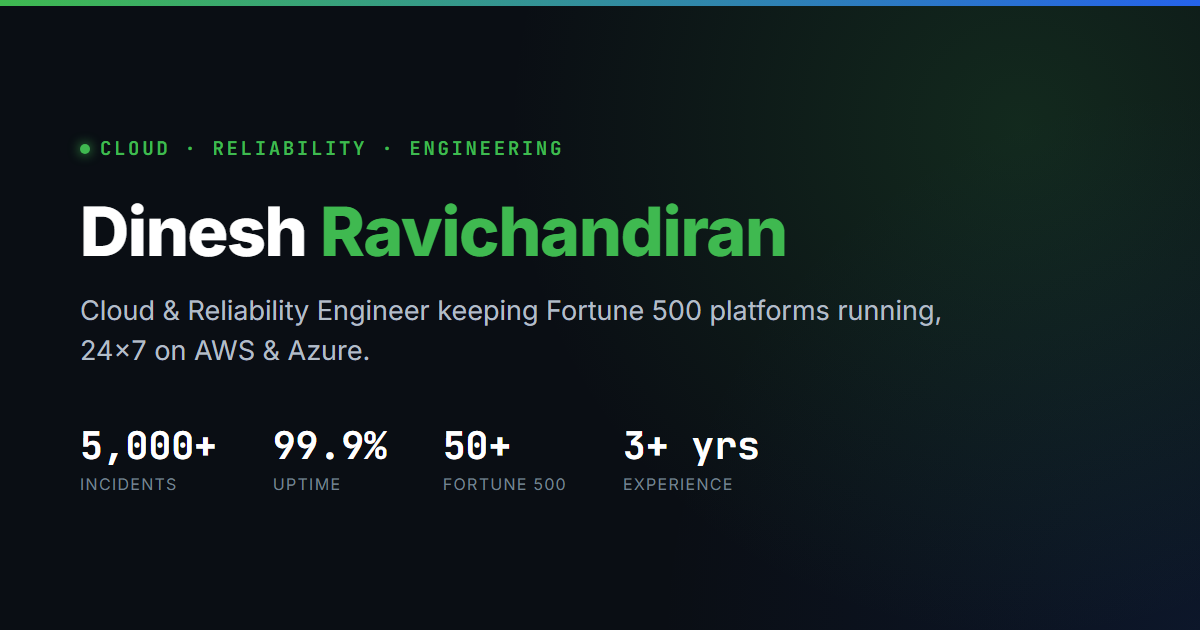
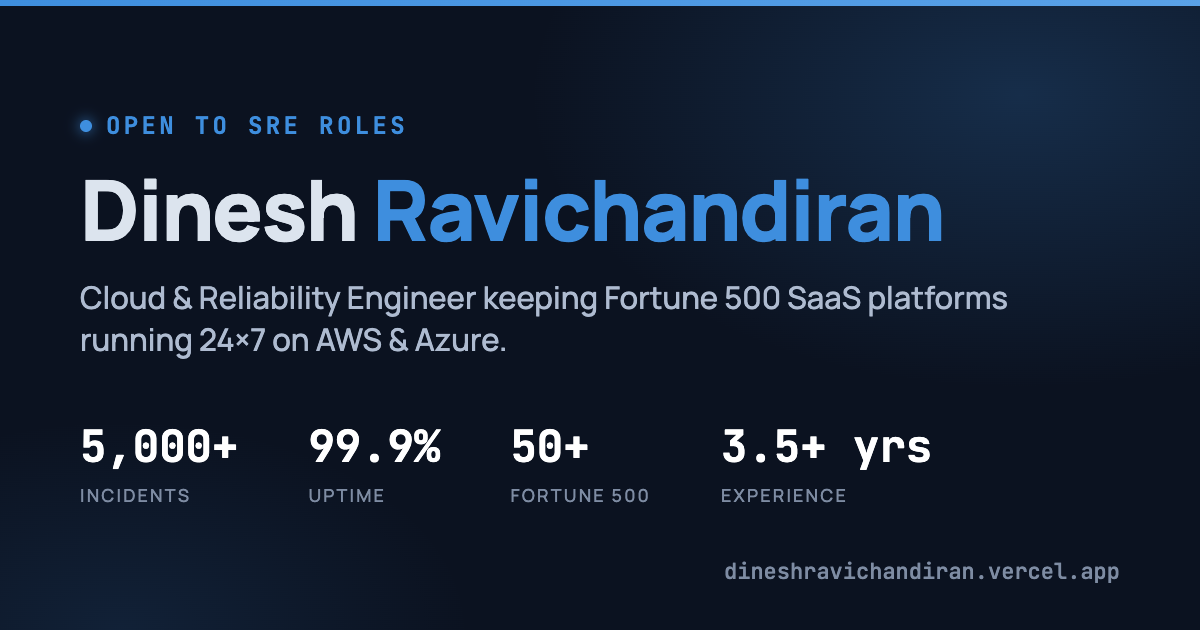
Portfolio review fixes: accurate title wording, mobile overflow, tighter copy
- hero, page title, meta and structured data use SRE-focused / Cloud &
  Reliability Engineer wording instead of stating an SRE job title
- shorter hero intro so the call to action fits on a phone screen
- fix 20px sideways scroll on mobile caused by slide-in reveals
- About uses 3.5+ years like everywhere else; Certifications heading no
  longer overstates two Fundamentals certs
- remove the empty dev.to link; trim dated and defensive copy
- college-era workshops and EF SET move behind a show toggle
- regenerate the social share image in the site's colours with 3.5+ yrs

diff --git a/index.html b/index.html
@@ -4,10 +4,10 @@
     <meta charset="UTF-8" />
     <link rel="icon" type="image/svg+xml" href="/favicon.svg" />
     <meta name="viewport" content="width=device-width, initial-scale=1.0" />
-    <title>Dinesh Ravichandiran — Site Reliability Engineer (SRE)</title>
-    <meta name="description" content="Site Reliability Engineer. 3.5+ years running 24x7 production ops for 50+ Fortune 500 SaaS platforms on AWS & Azure. 5,000+ incidents resolved, 99.9% uptime. AIOps, Kubernetes self-healing, and IaC in verified self-directed projects." />
-    <meta property="og:title" content="Dinesh Ravichandiran — Site Reliability Engineer (SRE)" />
-    <meta property="og:description" content="Site Reliability Engineer with 3.5+ years keeping 50+ Fortune 500 platforms running 24×7 on AWS & Azure — plus AIOps, Kubernetes self-healing, and IaC projects built and verified live." />
+    <title>Dinesh Ravichandiran | Cloud &amp; Reliability Engineer, open to SRE roles</title>
+    <meta name="description" content="SRE-focused cloud and reliability engineer with 3.5+ years running 24x7 production operations for 50+ Fortune 500 SaaS platforms on AWS and Azure. 5,000+ incidents resolved, 99.9% uptime, plus verified AIOps, Kubernetes and IaC projects." />
+    <meta property="og:title" content="Dinesh Ravichandiran | Cloud &amp; Reliability Engineer, open to SRE roles" />
+    <meta property="og:description" content="SRE-focused cloud and reliability engineer with 3.5+ years running 24x7 production operations for 50+ Fortune 500 SaaS platforms on AWS and Azure. 5,000+ incidents resolved, 99.9% uptime, plus verified AIOps, Kubernetes and IaC projects." />
     <meta property="og:type" content="website" />
     <meta property="og:url" content="https://dineshravichandiran.vercel.app/" />
     <meta property="og:site_name" content="Dinesh Ravichandiran" />
@@ -15,17 +15,17 @@
     <meta property="og:image:width" content="1200" />
     <meta property="og:image:height" content="630" />
     <meta name="twitter:card" content="summary_large_image" />
-    <meta name="twitter:title" content="Dinesh Ravichandiran — Site Reliability Engineer (SRE)" />
-    <meta name="twitter:description" content="Site Reliability Engineer with 3.5+ years keeping 50+ Fortune 500 platforms running 24×7 on AWS & Azure — plus AIOps, Kubernetes self-healing, and IaC projects built and verified live." />
+    <meta name="twitter:title" content="Dinesh Ravichandiran | Cloud &amp; Reliability Engineer, open to SRE roles" />
+    <meta name="twitter:description" content="SRE-focused cloud and reliability engineer with 3.5+ years running 24x7 production operations for 50+ Fortune 500 SaaS platforms on AWS and Azure. 5,000+ incidents resolved, 99.9% uptime, plus verified AIOps, Kubernetes and IaC projects." />
     <meta name="twitter:image" content="https://dineshravichandiran.vercel.app/og-image.png" />
     <link rel="canonical" href="https://dineshravichandiran.vercel.app/" />
     <meta name="theme-color" content="#0b1220" />
     <meta name="color-scheme" content="dark" />
     <meta name="author" content="Dinesh Ravichandiran" />
     <meta name="robots" content="index, follow, max-image-preview:large, max-snippet:-1" />
-    <meta property="og:image:alt" content="Dinesh Ravichandiran, Site Reliability Engineer" />
+    <meta property="og:image:alt" content="Dinesh Ravichandiran, Cloud &amp; Reliability Engineer" />
     <meta property="og:locale" content="en_IN" />
-    <meta name="twitter:image:alt" content="Dinesh Ravichandiran, Site Reliability Engineer" />
+    <meta name="twitter:image:alt" content="Dinesh Ravichandiran, Cloud &amp; Reliability Engineer" />
     <!-- The intro poster is the largest thing painted on load, so fetch it first. -->
     <link rel="preload" as="image" href="/media/intro-hero-desk-poster.webp" type="image/webp" fetchpriority="high" />
     <link rel="preconnect" href="https://fonts.googleapis.com" />
@@ -48,8 +48,8 @@
         "@context": "https://schema.org",
         "@type": "Person",
         "name": "Dinesh Ravichandiran",
-        "jobTitle": "Site Reliability Engineer",
-        "description": "Site Reliability Engineer focused on incident response, Kubernetes, cloud infrastructure on AWS and Azure, observability, and automation.",
+        "jobTitle": "Cloud Services Specialist NOC Engineer",
+        "description": "SRE-focused cloud and reliability engineer focused on incident response, Kubernetes, cloud infrastructure on AWS and Azure, observability, and automation.",
         "image": "https://dineshravichandiran.vercel.app/og-image.png",
         "knowsAbout": ["Site Reliability Engineering", "Kubernetes", "AWS", "Microsoft Azure", "Linux", "Observability", "Incident Management", "Terraform", "Ansible", "CI/CD", "AIOps"],
         "alumniOf": [
@@ -70,7 +70,6 @@
           "https://www.credly.com/users/dineshravichandiran",
           "https://x.com/dineshr_",
           "https://medium.com/@dineshravichandiran",
-          "https://dev.to/dinesh_ravichandiran",
           "https://hashnode.com/@dinesh101"
         ]
       }
@@ -80,8 +79,8 @@
     <div id="root"></div>
     <noscript>
       <main style="font-family: system-ui, sans-serif; max-width: 42rem; margin: 3rem auto; padding: 0 1rem; color: #dce4ee; background: #0b1220;">
-        <h1>Dinesh Ravichandiran, Site Reliability Engineer</h1>
-        <p>Site Reliability Engineer in Pune, India, keeping enterprise SaaS platforms running 24x7 on AWS and Azure. Focus areas: incident response, Kubernetes, observability, infrastructure as code, and automation.</p>
+        <h1>Dinesh Ravichandiran, Cloud &amp; Reliability Engineer</h1>
+        <p>SRE-focused cloud and reliability engineer in Pune, India, keeping enterprise SaaS platforms running 24x7 on AWS and Azure. Focus areas: incident response, Kubernetes, observability, infrastructure as code, and automation.</p>
         <p><a href="https://github.com/dineshravichandiran">GitHub</a> · <a href="https://linkedin.com/in/dineshravichandiran">LinkedIn</a> · <a href="mailto:dineshravichandiran0808@gmail.com">Email</a></p>
         <p>This site needs JavaScript to show the full portfolio.</p>
       </main>

diff --git a/src/data/gallery.ts b/src/data/gallery.ts
@@ -12,6 +12,8 @@ export interface GalleryItem {
 
 export interface GalleryGroup {
   heading: string
+  // Shown behind a "show" toggle: real, but secondary to the SRE story.
+  collapsed?: boolean
   items: GalleryItem[]
 }
 
@@ -63,7 +65,67 @@ export const certificateGroups: GalleryGroup[] = [
     ],
   },
   {
-    heading: 'Courses & workshops',
+    heading: 'Online courses & webinars',
+    items: [
+      {
+        src: '/gallery/kodekloud-kubernetes-crash-course.jpg',
+        title: 'Crash Course: Kubernetes For Absolute Beginners',
+        detail: 'Course Completion Certificate · KodeKloud',
+        date: '12 Aug 2025',
+        alt: 'KodeKloud course completion certificate for Crash Course: Kubernetes For Absolute Beginners',
+      },
+      {
+        src: '/gallery/kodekloud-12-factor-app.jpg',
+        title: '12 Factor App',
+        detail: 'Course Completion Certificate · KodeKloud',
+        date: '31 Aug 2025',
+        alt: 'KodeKloud course completion certificate for the 12 Factor App course',
+      },
+      {
+        src: '/gallery/internshala-core-java-ai-verification.jpg',
+        title: 'Core Java with AI',
+        detail: 'Internshala Trainings · final test score 71% · verified on the issuer\'s site',
+        date: '29 Sep 2021',
+        alt: 'Internshala Trainings certificate verification page showing Core Java with AI, final test score 71 percent, dated 29 September 2021',
+      },
+      {
+        src: '/gallery/sumo-logic-kubernetes-basics.jpg',
+        title: 'Kubernetes Basics',
+        detail: 'Certificate of Completion · Sumo Logic self-paced training · valid to 2 Aug 2026',
+        date: '2 Aug 2025',
+        alt: 'Sumo Logic self-paced training certificate of completion for Kubernetes Basics',
+      },
+      {
+        src: '/gallery/manipal-dataops-webinar.jpg',
+        title: 'The Rise of DataOps',
+        detail: 'Certificate of Participation · Online Manipal webinar',
+        date: '11 Jun 2025',
+        alt: 'Online Manipal certificate of participation in a webinar on The Rise of DataOps',
+      },
+      {
+        src: '/gallery/mhrd-leadership-talk.jpg',
+        title: 'India First Leadership Talk',
+        detail: "Certificate of Participation · MHRD's Innovation Cell (Government of India) · via Panimalar Engineering College",
+        date: '13 Jun',
+        alt: "MHRD Innovation Cell certificate of participation for a leadership talk, attended through Panimalar Engineering College",
+      },
+    ],
+  },
+  {
+    heading: 'Programs & language',
+    items: [
+      {
+        src: '/gallery/internshala-isp22-letter.jpg',
+        title: 'Internshala Student Partner (ISP 22)',
+        detail: 'Campus Ambassador Program · letter of recognition from Internshala',
+        date: 'Apr–Jun 2021',
+        alt: 'Internshala letter recognising Dinesh Ravichandiran for the Campus Ambassador Program, Internshala Student Partner 22 edition',
+      },
+    ],
+  },
+  {
+    heading: 'Earlier certificates (college years)',
+    collapsed: true,
     items: [
       {
         src: '/gallery/sathyabama-iot-short-course.jpg',
@@ -127,65 +189,6 @@ export const certificateGroups: GalleryGroup[] = [
         detail: 'Certificate of Appreciation · NSTEDB, DST · Panimalar Engineering College',
         date: '2–4 Nov 2019',
         alt: 'Entrepreneur Awareness Camp certificate of appreciation sponsored by NSTEDB and the Department of Science and Technology',
-      },
-    ],
-  },
-  {
-    heading: 'Online courses & webinars',
-    items: [
-      {
-        src: '/gallery/kodekloud-kubernetes-crash-course.jpg',
-        title: 'Crash Course: Kubernetes For Absolute Beginners',
-        detail: 'Course Completion Certificate · KodeKloud',
-        date: '12 Aug 2025',
-        alt: 'KodeKloud course completion certificate for Crash Course: Kubernetes For Absolute Beginners',
-      },
-      {
-        src: '/gallery/kodekloud-12-factor-app.jpg',
-        title: '12 Factor App',
-        detail: 'Course Completion Certificate · KodeKloud',
-        date: '31 Aug 2025',
-        alt: 'KodeKloud course completion certificate for the 12 Factor App course',
-      },
-      {
-        src: '/gallery/internshala-core-java-ai-verification.jpg',
-        title: 'Core Java with AI',
-        detail: 'Internshala Trainings · final test score 71% · verified on the issuer\'s site',
-        date: '29 Sep 2021',
-        alt: 'Internshala Trainings certificate verification page showing Core Java with AI, final test score 71 percent, dated 29 September 2021',
-      },
-      {
-        src: '/gallery/sumo-logic-kubernetes-basics.jpg',
-        title: 'Kubernetes Basics',
-        detail: 'Certificate of Completion · Sumo Logic self-paced training · valid to 2 Aug 2026',
-        date: '2 Aug 2025',
-        alt: 'Sumo Logic self-paced training certificate of completion for Kubernetes Basics',
-      },
-      {
-        src: '/gallery/manipal-dataops-webinar.jpg',
-        title: 'The Rise of DataOps',
-        detail: 'Certificate of Participation · Online Manipal webinar',
-        date: '11 Jun 2025',
-        alt: 'Online Manipal certificate of participation in a webinar on The Rise of DataOps',
-      },
-      {
-        src: '/gallery/mhrd-leadership-talk.jpg',
-        title: 'India First Leadership Talk',
-        detail: "Certificate of Participation · MHRD's Innovation Cell (Government of India) · via Panimalar Engineering College",
-        date: '13 Jun',
-        alt: "MHRD Innovation Cell certificate of participation for a leadership talk, attended through Panimalar Engineering College",
-      },
-    ],
-  },
-  {
-    heading: 'Programs & language',
-    items: [
-      {
-        src: '/gallery/internshala-isp22-letter.jpg',
-        title: 'Internshala Student Partner (ISP 22)',
-        detail: 'Campus Ambassador Program · letter of recognition from Internshala',
-        date: 'Apr–Jun 2021',
-        alt: 'Internshala letter recognising Dinesh Ravichandiran for the Campus Ambassador Program, Internshala Student Partner 22 edition',
       },
       {
         src: '/gallery/ef-set-english-b2.jpg',

diff --git a/src/components/gallery/CertificateGallery.tsx b/src/components/gallery/CertificateGallery.tsx
@@ -1,3 +1,4 @@
+import { useState } from 'react'
 import GalleryGrid from './GalleryGrid'
 import { certificateGroups, courseCredentials, trainingCourses } from '../../data/gallery'
 import type { TrainingItem } from '../../data/gallery'
@@ -22,6 +23,29 @@ function TextList({ heading, items }: { heading: string; items: TrainingItem[] }
   )
 }
 
+function CollapsedGroup({ heading, items }: { heading: string; items: (typeof certificateGroups)[number]['items'] }) {
+  const [open, setOpen] = useState(false)
+  return (
+    <div>
+      <button
+        type="button"
+        onClick={() => setOpen((v) => !v)}
+        aria-expanded={open}
+        className="inline-flex cursor-pointer items-center gap-2 rounded-full border border-panel-border-strong px-4 py-2 font-mono text-[0.78rem] uppercase tracking-wide text-text-secondary transition-colors hover:border-accent hover:text-text"
+      >
+        {open ? 'Hide' : 'Show'} {heading.toLowerCase()} ({items.length})
+        <span aria-hidden="true" className={`transition-transform ${open ? 'rotate-45' : ''}`}>+</span>
+      </button>
+      {/* Rendered only when opened, so these images never load for visitors who don't ask. */}
+      {open && (
+        <div className="mt-5">
+          <GalleryGrid items={items} fit="contain" />
+        </div>
+      )}
+    </div>
+  )
+}
+
 export default function CertificateGallery() {
   return (
     <div className="mt-16" id="certificate-gallery">
@@ -31,14 +55,21 @@ export default function CertificateGallery() {
         professional ones. Click any certificate to view it full size.
       </p>
       <div className="flex flex-col gap-10">
-        {certificateGroups.map((g) => (
-          <div key={g.heading}>
-            <div className="mb-4 font-mono text-[0.78rem] uppercase tracking-wide text-accent">{g.heading}</div>
-            <GalleryGrid items={g.items} fit="contain" />
-          </div>
-        ))}
+        {certificateGroups
+          .filter((g) => !g.collapsed)
+          .map((g) => (
+            <div key={g.heading}>
+              <div className="mb-4 font-mono text-[0.78rem] uppercase tracking-wide text-accent">{g.heading}</div>
+              <GalleryGrid items={g.items} fit="contain" />
+            </div>
+          ))}
         <TextList heading="Professional training" items={trainingCourses} />
         <TextList heading="More badges" items={courseCredentials} />
+        {certificateGroups
+          .filter((g) => g.collapsed)
+          .map((g) => (
+            <CollapsedGroup key={g.heading} heading={g.heading} items={g.items} />
+          ))}
       </div>
     </div>
   )

diff --git a/src/data/profile.ts b/src/data/profile.ts
@@ -4,11 +4,11 @@ const experience = getYearsExperience()
 
 export const profile = {
   name: 'Dinesh Ravichandiran',
-  role: 'Site Reliability Engineer',
+  role: 'Cloud & Reliability Engineer',
   location: 'Pune, India',
   email: 'dineshravichandiran0808@gmail.com',
   headline: 'I make production failures rare, then rarer.',
-  lede: "Site Reliability Engineer with 3.5+ years of production experience at a Fortune 500 enterprise SaaS/PLM company, keeping enterprise SaaS platforms running 24×7 on AWS & Azure for 50+ Fortune 500 customers. I resolve production issues independently across Kubernetes, Linux, and cloud infrastructure, and extend that into AIOps, infrastructure-as-code, and CI/CD in my own self-directed projects. CKA certification is next up. 5,000+ incidents resolved, 99.9% uptime maintained.",
+  lede: "SRE-focused engineer with 3.5+ years keeping enterprise SaaS platforms running 24×7 on AWS & Azure for 50+ Fortune 500 customers. 5,000+ incidents resolved, 99.9% uptime, plus self-directed builds in AIOps, Kubernetes self-healing, and infrastructure as code.",
   tag: 'Open to Site Reliability Engineering (SRE) roles',
   now: "Currently a Cloud Services Specialist NOC Engineer (promoted Jun 2026, relocated from Gurgaon to Pune that September), running 24×7 production operations across enterprise PLM, IIoT, and microservice infrastructure on AKS. Earlier this year I authored a memory-optimization runbook for clustered PLM nodes that's now the standard referenced by the org-wide NOC memory-alert runbook. I presented its business impact directly to management. I keep growing through an MBA in Information Systems & Analytics, hands-on labs, and continuous self-study. Give me a challenging problem and a team to grow with, and I will deliver.",
   stats: [
@@ -27,7 +27,6 @@ export const profile = {
     { label: 'AWS Builder', href: 'https://builder.aws.com/community/@dineshravichandiran' },
     { label: 'X', href: 'https://x.com/dineshr_' },
     { label: 'Medium', href: 'https://medium.com/@dineshravichandiran' },
-    { label: 'dev.to', href: 'https://dev.to/dinesh_ravichandiran' },
     { label: 'SRE Blog', href: 'https://jvm-thread-heap-dumps-sre.hashnode.dev' },
     { label: 'Hashnode', href: 'https://hashnode.com/@dinesh101' },
   ] as { label: string; href: string; download?: boolean }[],

diff --git a/src/components/sections/Tree.tsx b/src/components/sections/Tree.tsx
@@ -140,9 +140,7 @@ export default function Tree() {
     <div className="container py-8 pb-16 overflow-hidden">
       <SectionHeader label="06 / Project Tree" title="Everything I've built, branched out." />
       <p className="text-text-secondary text-[1.05rem] leading-relaxed max-w-[680px] mb-10">
-        A git-graph view of my work: one root, five branches, each named the way I'd tag an
-        internal initiative rather than just a folder path (my own naming convention for this
-        page, not an actual company's internal codenames).
+        A git-graph view of my work: one root, five branches, from day-job initiatives to self-directed builds, awards and certifications.
       </p>
 
       <div className="flex items-center gap-2.5 mb-10 pb-6 border-b border-panel-border">

diff --git a/src/data/about.ts b/src/data/about.ts
@@ -4,7 +4,7 @@ export interface AboutCard {
   body: string
 }
 
-export const aboutIntro = "Three years keeping enterprise SaaS platforms online for 50+ Fortune 500 customers. The person who gets paged at 2 a.m. and has it resolved before the business day starts. Here's what that actually looks like, day to day."
+export const aboutIntro = "3.5+ years keeping enterprise SaaS platforms online for 50+ Fortune 500 customers. The person who gets paged at 2 a.m. and has it resolved before the business day starts. Here's what that actually looks like, day to day."
 
 export const aboutCards: AboutCard[] = [
   {

diff --git a/src/data/credentials.ts b/src/data/credentials.ts
@@ -10,7 +10,7 @@ export const events: EventItem[] = [
     status: 'Attended',
     title: 'KubeCon + CloudNativeCon India 2026',
     date: 'June 18–19, 2026 · Jio World Convention Centre, Mumbai',
-    desc: "At KubeCon Mumbai with a curated schedule focused on Kubernetes observability, SRE practices, and platform engineering. If we met there, great to connect! Reach me anytime via the links below.",
+    desc: "Two days in Mumbai focused on Kubernetes observability, SRE practices, and platform engineering.",
   },
   {
     status: 'Attended',

diff --git a/src/data/capabilities.ts b/src/data/capabilities.ts
@@ -36,6 +36,6 @@ export const capabilities: Capability[] = [
     title: 'AI-Native Dev',
     tagline: 'Full-Stack · LLM Agents · Self-Taught',
     bar: 'React/Node · AI-Agent Tooling · Google Antigravity',
-    stat: { value: 'This site', label: 'built solo with AI tooling' },
+    stat: { value: 'This site', label: 'designed, built & shipped solo' },
   },
 ]

diff --git a/src/pages/JourneyPage.tsx b/src/pages/JourneyPage.tsx
@@ -1,7 +1,7 @@
 import { useEffect } from 'react'
 import JourneyScene from '../components/three/JourneyScene'
 
-const DEFAULT_TITLE = 'Dinesh Ravichandiran — Site Reliability Engineer (SRE)'
+const DEFAULT_TITLE = 'Dinesh Ravichandiran | Cloud & Reliability Engineer, open to SRE roles'
 
 export default function JourneyPage() {
   useEffect(() => {

diff --git a/src/components/sections/Certifications.tsx b/src/components/sections/Certifications.tsx
@@ -65,7 +65,7 @@ export default function Certifications() {
 
   return (
     <div className="container py-8 pb-16">
-      <SectionHeader label="11 / Certifications" title="Certified specializations." />
+      <SectionHeader label="11 / Certifications" title="Certifications." />
 
       <div
         ref={stageRef}

diff --git a/src/components/layout/Layout.tsx b/src/components/layout/Layout.tsx
@@ -26,7 +26,7 @@ export default function Layout() {
       <GlareSweep />
       <CustomCursor />
       <NavBar />
-      <main className="pb-24">
+      <main className="pb-24 overflow-x-clip">
         <Outlet />
       </main>
       {showChat && (
